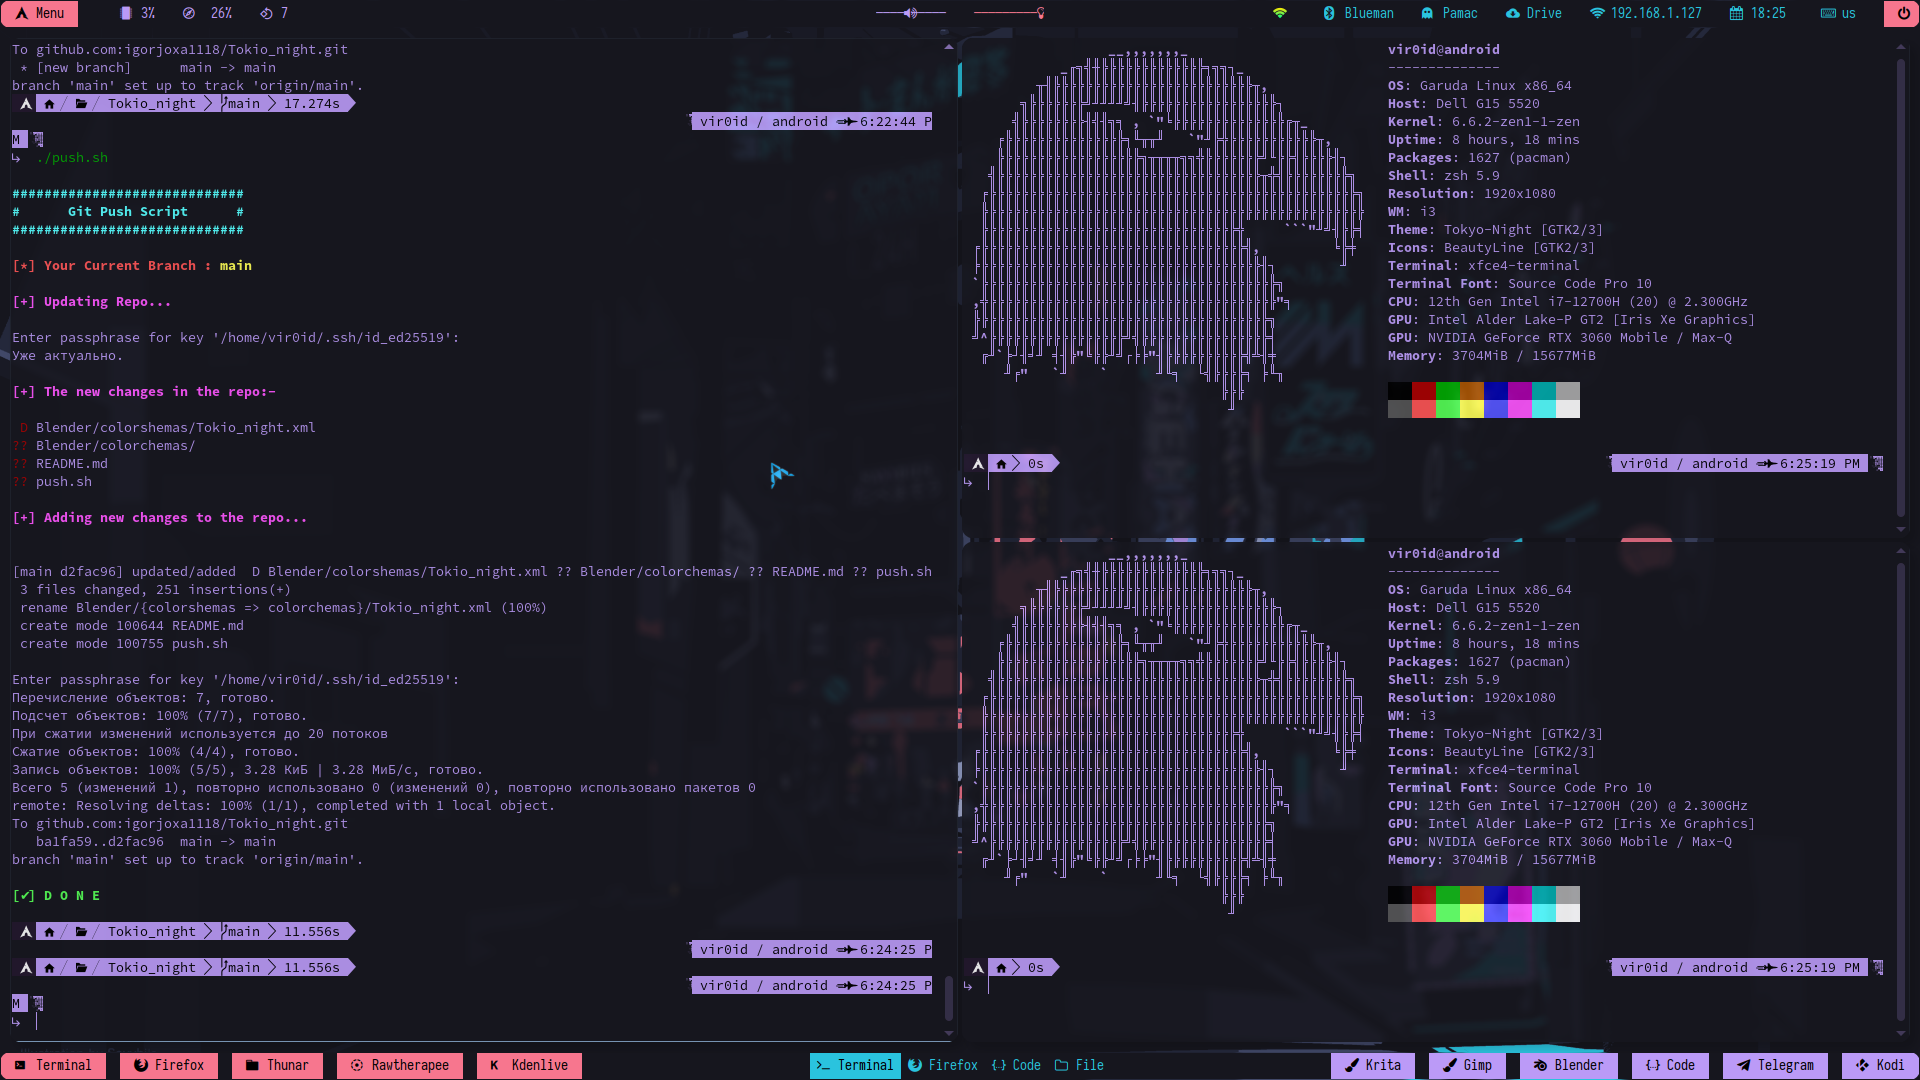
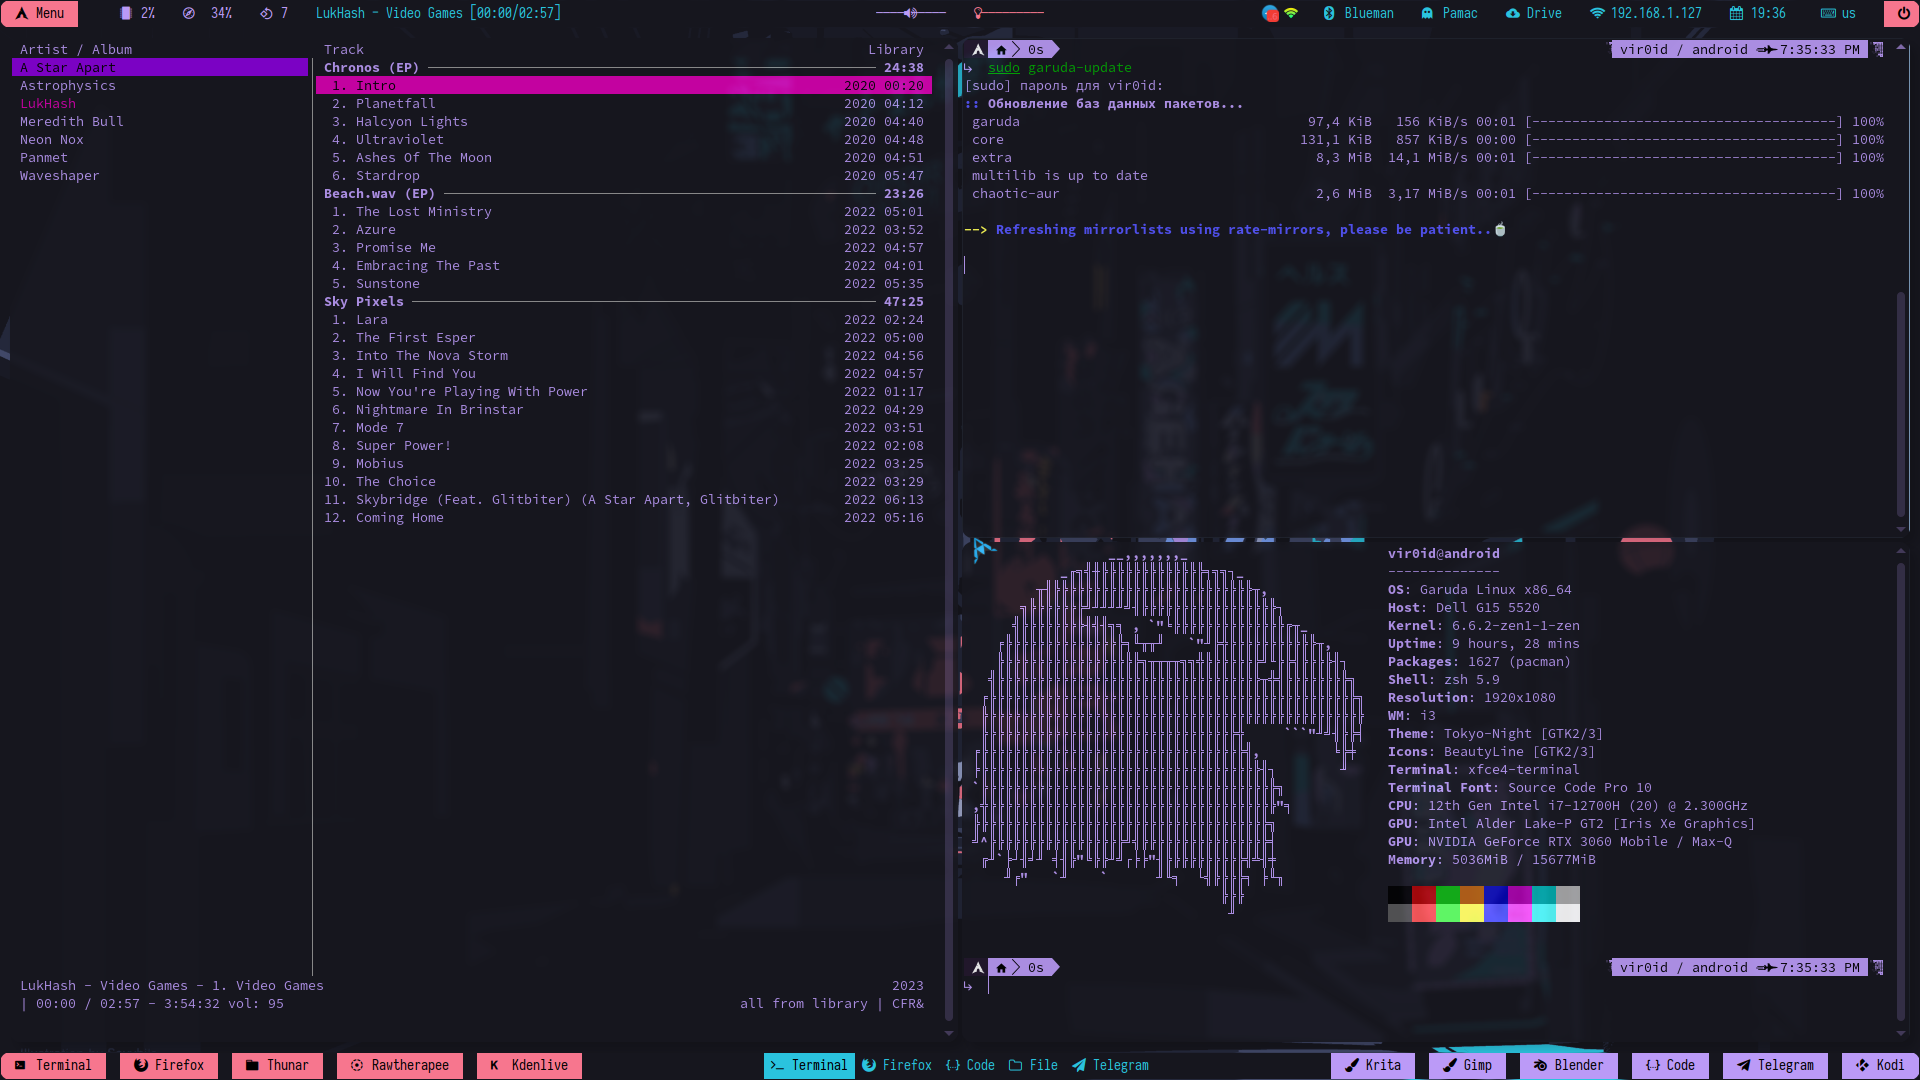
updated/added  M README.md  M screenshots/terminal.png ?? cmus/

diff --git a/README.md b/README.md
@@ -161,3 +161,12 @@ eval "$(oh-my-posh init zsh --config ~/.poshthemes/Zorin.omp.json)"
 ```
 
 3. Ссылка на тему [Telegram](https://t.me/addtheme/pIK0pC3eIoopeaG7)
+
+4. Цветовая тема для плеера cmus.
+
+> Закинуть Tokio_night.theme в ~/.config/cmus/  
+Затем открыть плеер, нажать ":" и вставить это:
+
+```python
+colorscheme Tokio_night
+```
